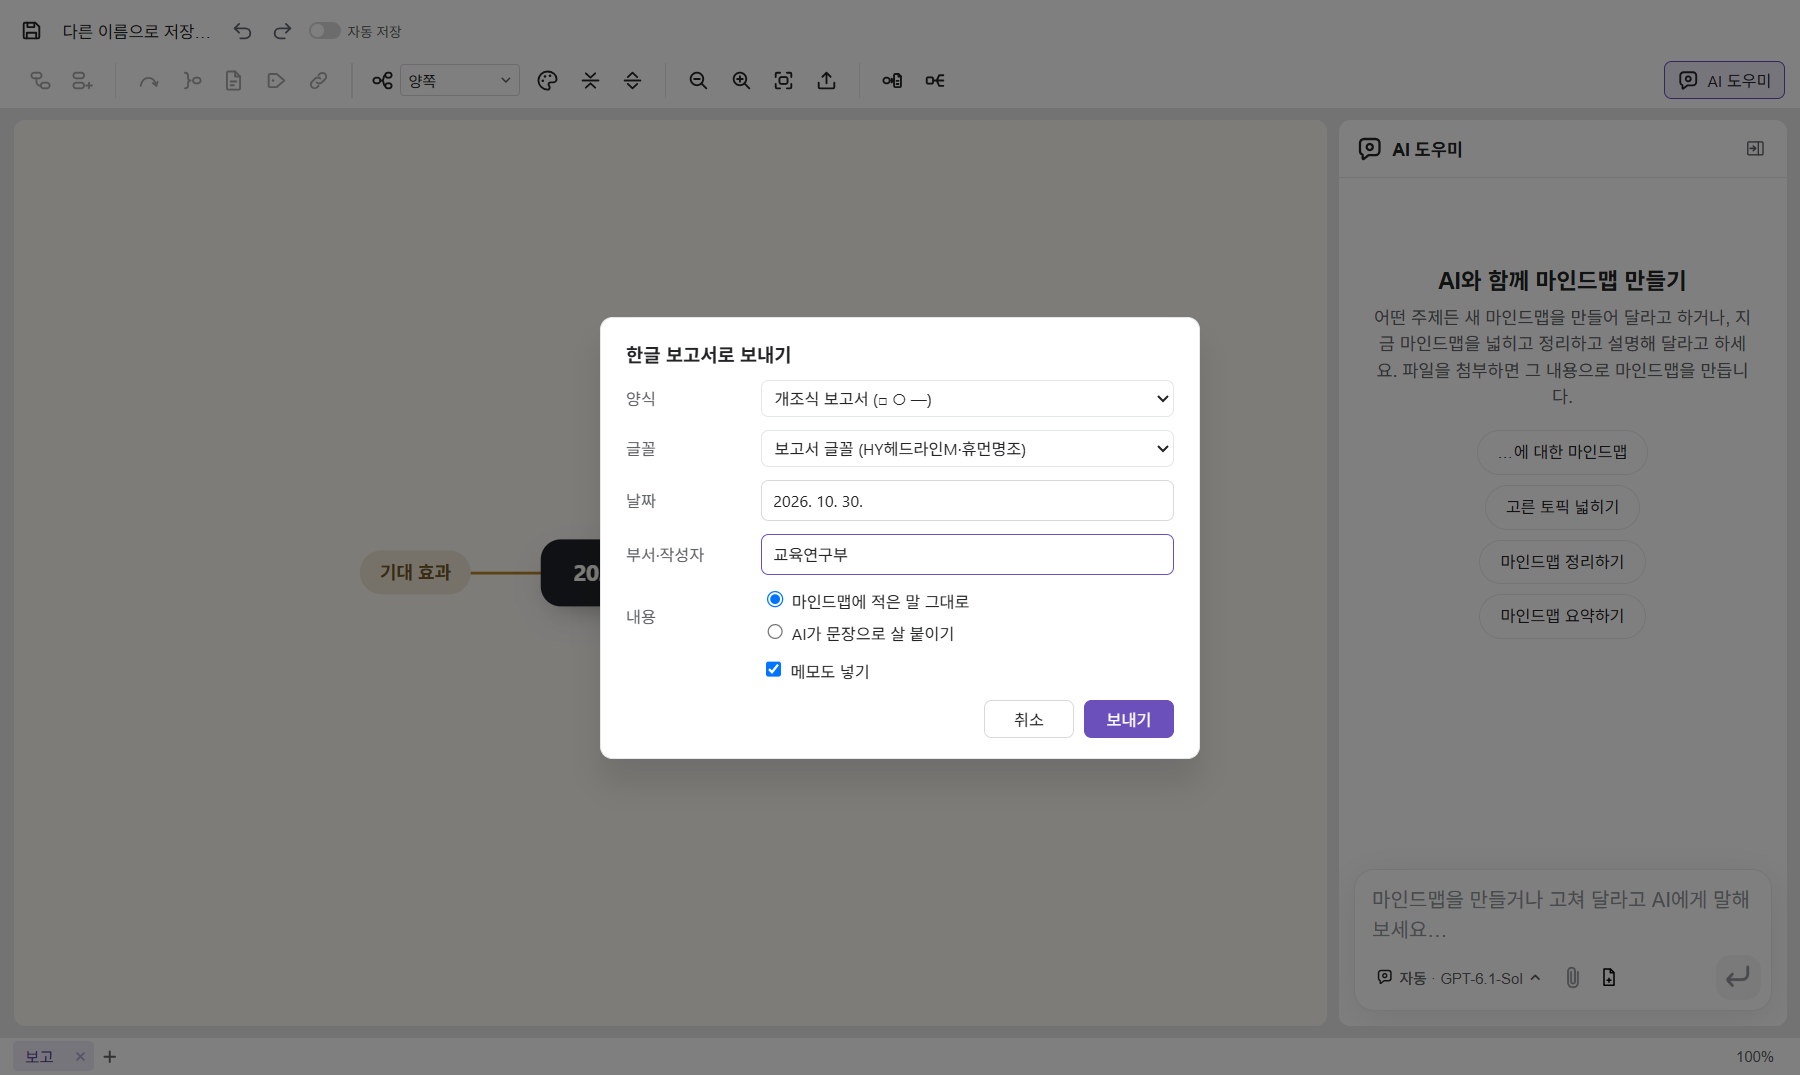
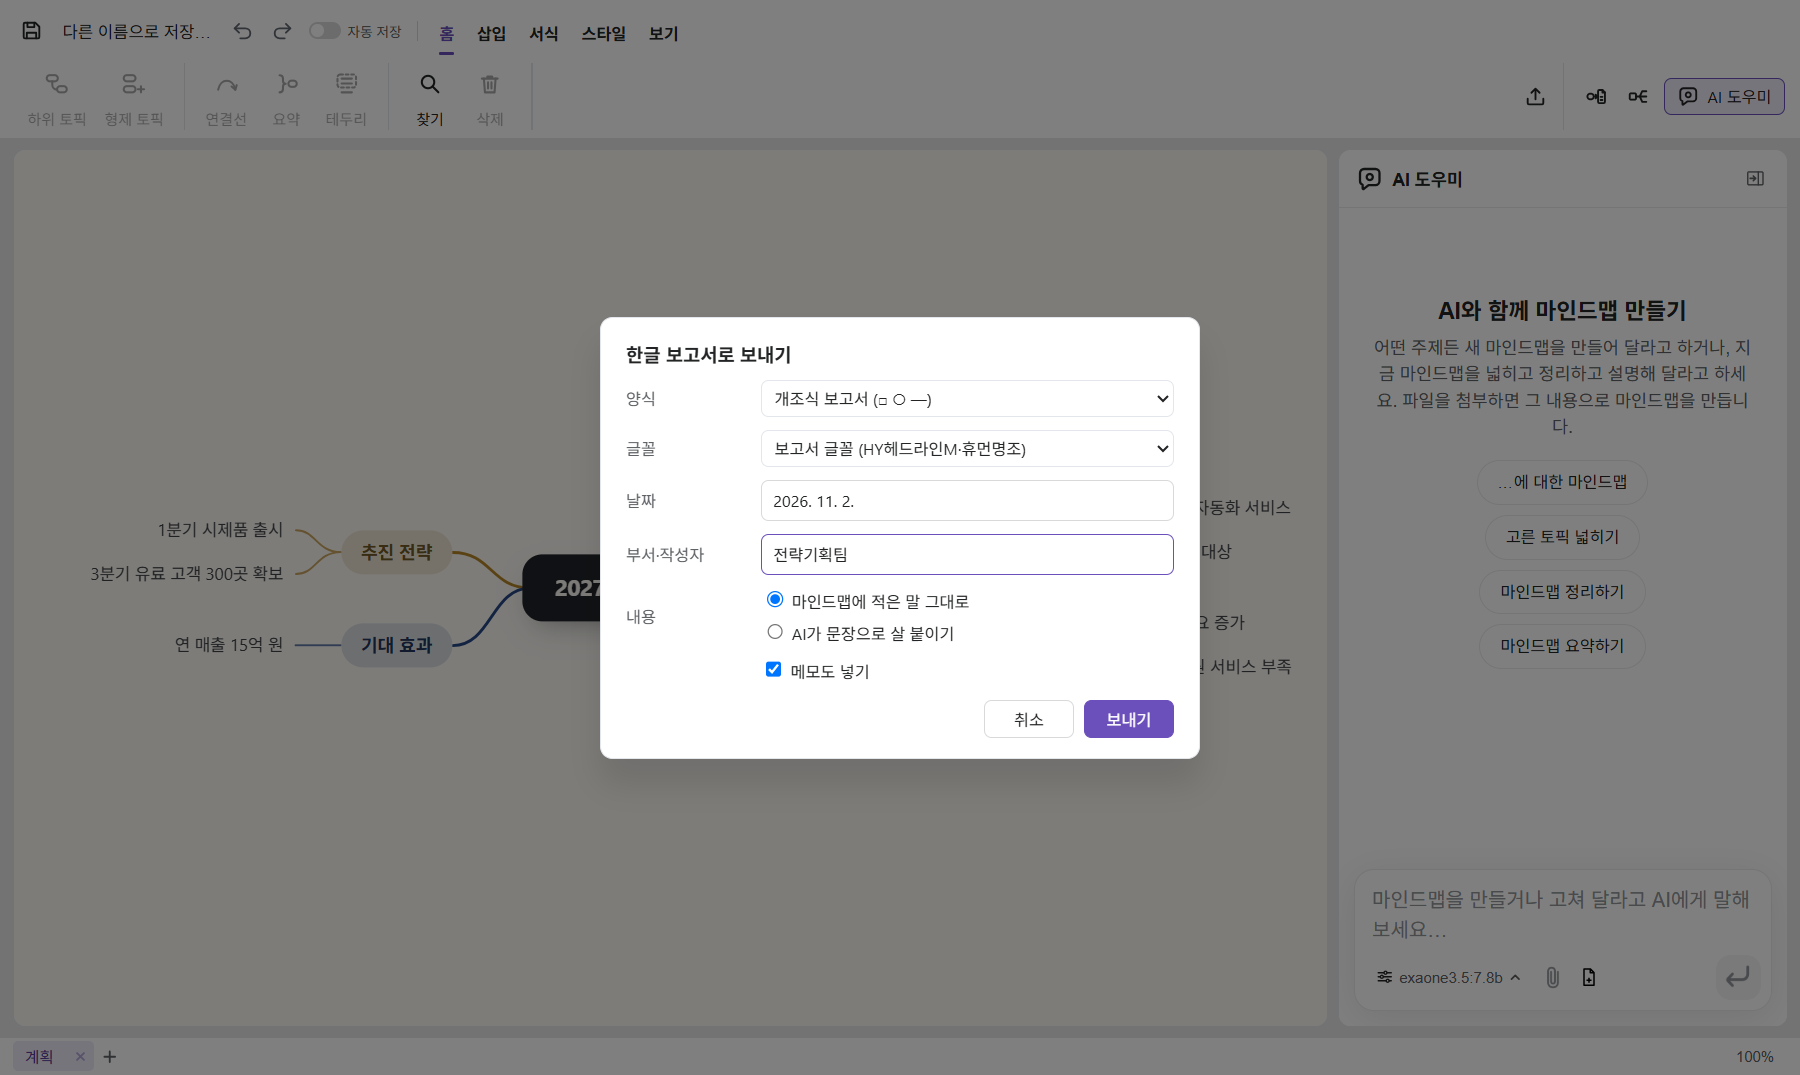
docs(site): lead with business plans and reports, new screenshots and link preview
The hero, its map-to-report drawing and three screenshots now show a
2027 new-business plan instead of a teacher-training plan. The link
preview uses a 2400x1260 card of the map becoming an HWP report.

diff --git a/site/index.html b/site/index.html
@@ -3,11 +3,13 @@
 <head>
   <meta charset="utf-8" />
   <meta name="viewport" content="width=device-width, initial-scale=1" />
-  <title>한판 — 생각은 마인드맵으로, 문서는 한 판에</title>
-  <meta name="description" content="한판은 마인드맵을 한글 보고서·PPT·워드로 보내 같은 창에서 이어 쓰는 무료 데스크톱 오피스입니다. AI는 내 PC에 깔린 AI를 먼저 씁니다. Made by TenAI." />
-  <meta property="og:title" content="한판 — 생각은 마인드맵으로, 문서는 한 판에" />
-  <meta property="og:description" content="마인드맵 하나로 한글 보고서·PPT·워드까지. 내 PC AI 우선. Made by TenAI." />
-  <meta property="og:image" content="images/04-hwp-report.png" />
+  <title>한판 — 마인드맵이 그대로 사업계획서가 됩니다</title>
+  <meta name="description" content="한판은 마인드맵으로 정리한 사업 구상을 한글 사업계획서·보고서, PPT, 워드로 보내 같은 창에서 이어 쓰는 무료 데스크톱 오피스입니다. AI는 내 PC에 깔린 AI를 먼저 씁니다. Made by TenAI." />
+  <meta property="og:title" content="한판 — 마인드맵이 그대로 사업계획서가 됩니다" />
+  <meta property="og:description" content="마인드맵 하나로 한글 사업계획서·보고서, PPT, 워드까지. 무료, 회원가입 없음. Made by TenAI." />
+  <meta property="og:image" content="https://hanpan-blond.vercel.app/images/og-hanpan.png" />
+  <meta property="og:image:width" content="2400" />
+  <meta property="og:image:height" content="1260" />
   <link rel="icon" href="images/icon.svg" type="image/svg+xml" />
   <link rel="preconnect" href="https://fonts.googleapis.com" />
   <link rel="preconnect" href="https://fonts.gstatic.com" crossorigin />
@@ -217,8 +219,8 @@
     <section class="hero" aria-labelledby="hero-title">
       <div class="wrap">
         <div>
-          <h1 id="hero-title">생각은 마인드맵으로,<br />문서는 한 판에.</h1>
-          <p class="lead">마인드맵에 정리한 생각을 버튼 하나로 한글 보고서·PPT·워드로 보내 같은 창에서 이어 씁니다. 한쪽을 고치면 다른 쪽도 맞춰집니다. AI는 내 PC에 깔린 AI를 먼저 씁니다.</p>
+          <h1 id="hero-title">마인드맵이 그대로<br />사업계획서가 됩니다.</h1>
+          <p class="lead">마인드맵에 정리한 사업 구상을 버튼 하나로 한글 사업계획서·보고서, PPT, 워드로 보내 같은 창에서 이어 씁니다. 한쪽을 고치면 다른 쪽도 맞춰집니다. AI는 내 PC에 깔린 AI를 먼저 씁니다.</p>
           <div class="actions">
             <a class="btn download-link" href="https://github.com/SamulChung/hanpan/releases/latest">
               <svg viewBox="0 0 20 20" fill="none" stroke="currentColor" stroke-width="2" stroke-linecap="round" stroke-linejoin="round" aria-hidden="true"><path d="M10 3v10M5.5 8.5 10 13l4.5-4.5M4 16.5h12" /></svg>
@@ -236,23 +238,23 @@
             <path class="map-line" d="M120 245 C 60 245, 60 200, 22 195" />
             <path class="map-line" d="M120 245 C 60 245, 60 300, 22 300" />
             <path class="map-line" d="M120 245 C 60 245, 60 385, 30 390" />
-            <g class="root"><circle cx="120" cy="245" r="54" /><text x="120" y="240" text-anchor="middle">AI 연수</text><text x="120" y="260" text-anchor="middle">계획</text></g>
-            <g class="topic"><rect x="-70" y="92" width="104" height="36" rx="18" /><text x="-18" y="115" text-anchor="middle">추진 배경</text></g>
-            <g class="topic"><rect x="-78" y="177" width="104" height="36" rx="18" /><text x="-26" y="200" text-anchor="middle">업무 경감</text></g>
-            <g class="topic"><rect x="-78" y="282" width="104" height="36" rx="18" /><text x="-26" y="305" text-anchor="middle">추진 내용</text></g>
+            <g class="root"><circle cx="120" cy="245" r="54" /><text x="120" y="240" text-anchor="middle">신사업</text><text x="120" y="260" text-anchor="middle">추진 계획</text></g>
+            <g class="topic"><rect x="-70" y="92" width="104" height="36" rx="18" /><text x="-18" y="115" text-anchor="middle">사업 개요</text></g>
+            <g class="topic"><rect x="-78" y="177" width="104" height="36" rx="18" /><text x="-26" y="200" text-anchor="middle">시장 현황</text></g>
+            <g class="topic"><rect x="-78" y="282" width="104" height="36" rx="18" /><text x="-26" y="305" text-anchor="middle">추진 전략</text></g>
             <g class="topic"><rect x="-70" y="372" width="104" height="36" rx="18" /><text x="-18" y="395" text-anchor="middle">기대 효과</text></g>
             <path class="flow" d="M176 245 C 220 245, 222 190, 262 190" />
             <!-- the report it becomes -->
             <g class="report">
               <rect class="sheet" x="262" y="40" width="290" height="420" rx="8" />
               <g class="sheet-text">
-                <text class="row sheet-title" x="407" y="96" text-anchor="middle">2026년 AI 연수 계획</text>
-                <text class="row sheet-date" x="526" y="124" text-anchor="end">2026. 10. 30.  교육연구부</text>
-                <text class="row sheet-l1" x="290" y="172">□ 추진 배경</text>
-                <text class="row sheet-l2" x="306" y="204">○ 교원 AI 활용 수요 증가</text>
-                <text class="row sheet-l2" x="306" y="234">○ 교원 업무 경감 필요</text>
-                <text class="row sheet-l1" x="290" y="280">□ 추진 내용</text>
-                <text class="row sheet-l2" x="306" y="312">○ 기초 연수 (3월)</text>
+                <text class="row sheet-title" x="407" y="96" text-anchor="middle">2027년 신사업 추진 계획</text>
+                <text class="row sheet-date" x="526" y="124" text-anchor="end">2026. 11. 2.  전략기획팀</text>
+                <text class="row sheet-l1" x="290" y="172">□ 사업 개요</text>
+                <text class="row sheet-l2" x="306" y="204">○ 소상공인용 문서 자동화 서비스</text>
+                <text class="row sheet-l2" x="306" y="234">○ 직원 50인 이하 기업 대상</text>
+                <text class="row sheet-l1" x="290" y="280">□ 시장 현황</text>
+                <text class="row sheet-l2" x="306" y="312">○ 문서 업무 자동화 수요 증가</text>
               </g>
               <path d="M306 340 H 520 M306 364 H 488 M306 388 H 506 M306 412 H 470" stroke="#dce3ec" stroke-width="7" stroke-linecap="round" />
             </g>
@@ -282,7 +284,7 @@
         <article class="feature">
           <div class="copy">
             <span class="tag">마인드맵 → 문서</span>
-            <h3>마인드맵 하나로 한글 보고서, PPT, 워드까지</h3>
+            <h3>마인드맵 하나로 사업계획서, 보고서, PPT, 워드까지</h3>
             <p>도구 줄의 보내기를 누르면 같은 창의 새 탭에 문서가 열립니다.</p>
             <ul>
               <li>개조식 보고서(□ ○ ―), 장 보고서(Ⅰ.), 공문 번호(1. 가. 1))</li>
@@ -471,7 +473,7 @@
       <div class="wrap ai-grid">
         <div>
           <h2 id="ai-title">AI는 내 PC에 깔린 것부터</h2>
-          <p class="intro" style="margin-bottom:0">처음 시작할 때 이 PC에서 돌고 있는 AI를 찾아 기본으로 씁니다. 문서를 PC 밖으로 보내지 않아 공공기관·학교에서도 안심하고 쓸 수 있습니다. Claude나 ChatGPT 구독을 쓰고 싶다면 설정에서 고르면 됩니다.</p>
+          <p class="intro" style="margin-bottom:0">처음 시작할 때 이 PC에서 돌고 있는 AI를 찾아 기본으로 씁니다. 사업계획서처럼 밖에 내보이기 어려운 문서도 PC 밖으로 보내지 않아, 회사와 공공기관에서도 안심하고 쓸 수 있습니다. Claude나 ChatGPT 구독을 쓰고 싶다면 설정에서 고르면 됩니다.</p>
         </div>
         <table>
           <thead><tr><th scope="col">찾는 AI</th><th scope="col">주소</th></tr></thead>
